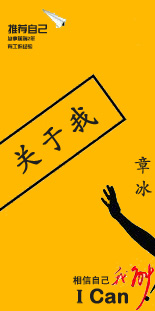
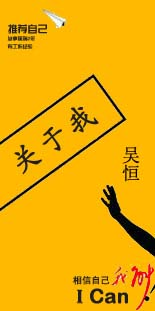
第二十八修改 20160401

diff --git a/index.html b/index.html
@@ -3,7 +3,7 @@
 <meta http-equiv="Content-Type" content="text/html; charset=UTF-8">
 <title>侠岚之弋痕夕</title>
 <meta name="keywords" content="吴恒,侠岚之弋痕夕,个人网站,作品欣赏">
-<meta name="description" content="侠岚之弋痕夕的个人网站包含章冰个人基本信息、部分项目信息及工作信息内容">
+<meta name="description" content="侠岚之弋痕夕的个人网站包含个人基本信息、部分项目信息及工作信息内容">
 <link type="image/x-icon" href="https://wuheng1991.github.io/favicon.ico" rel="shortcut icon">
 <link rel="stylesheet" type="text/css" href="https://wuheng1991.github.io/css/home.css">
 <link rel="stylesheet" type="text/css" href="https://wuheng1991.github.io/css/style0.css" id="linkcss">
